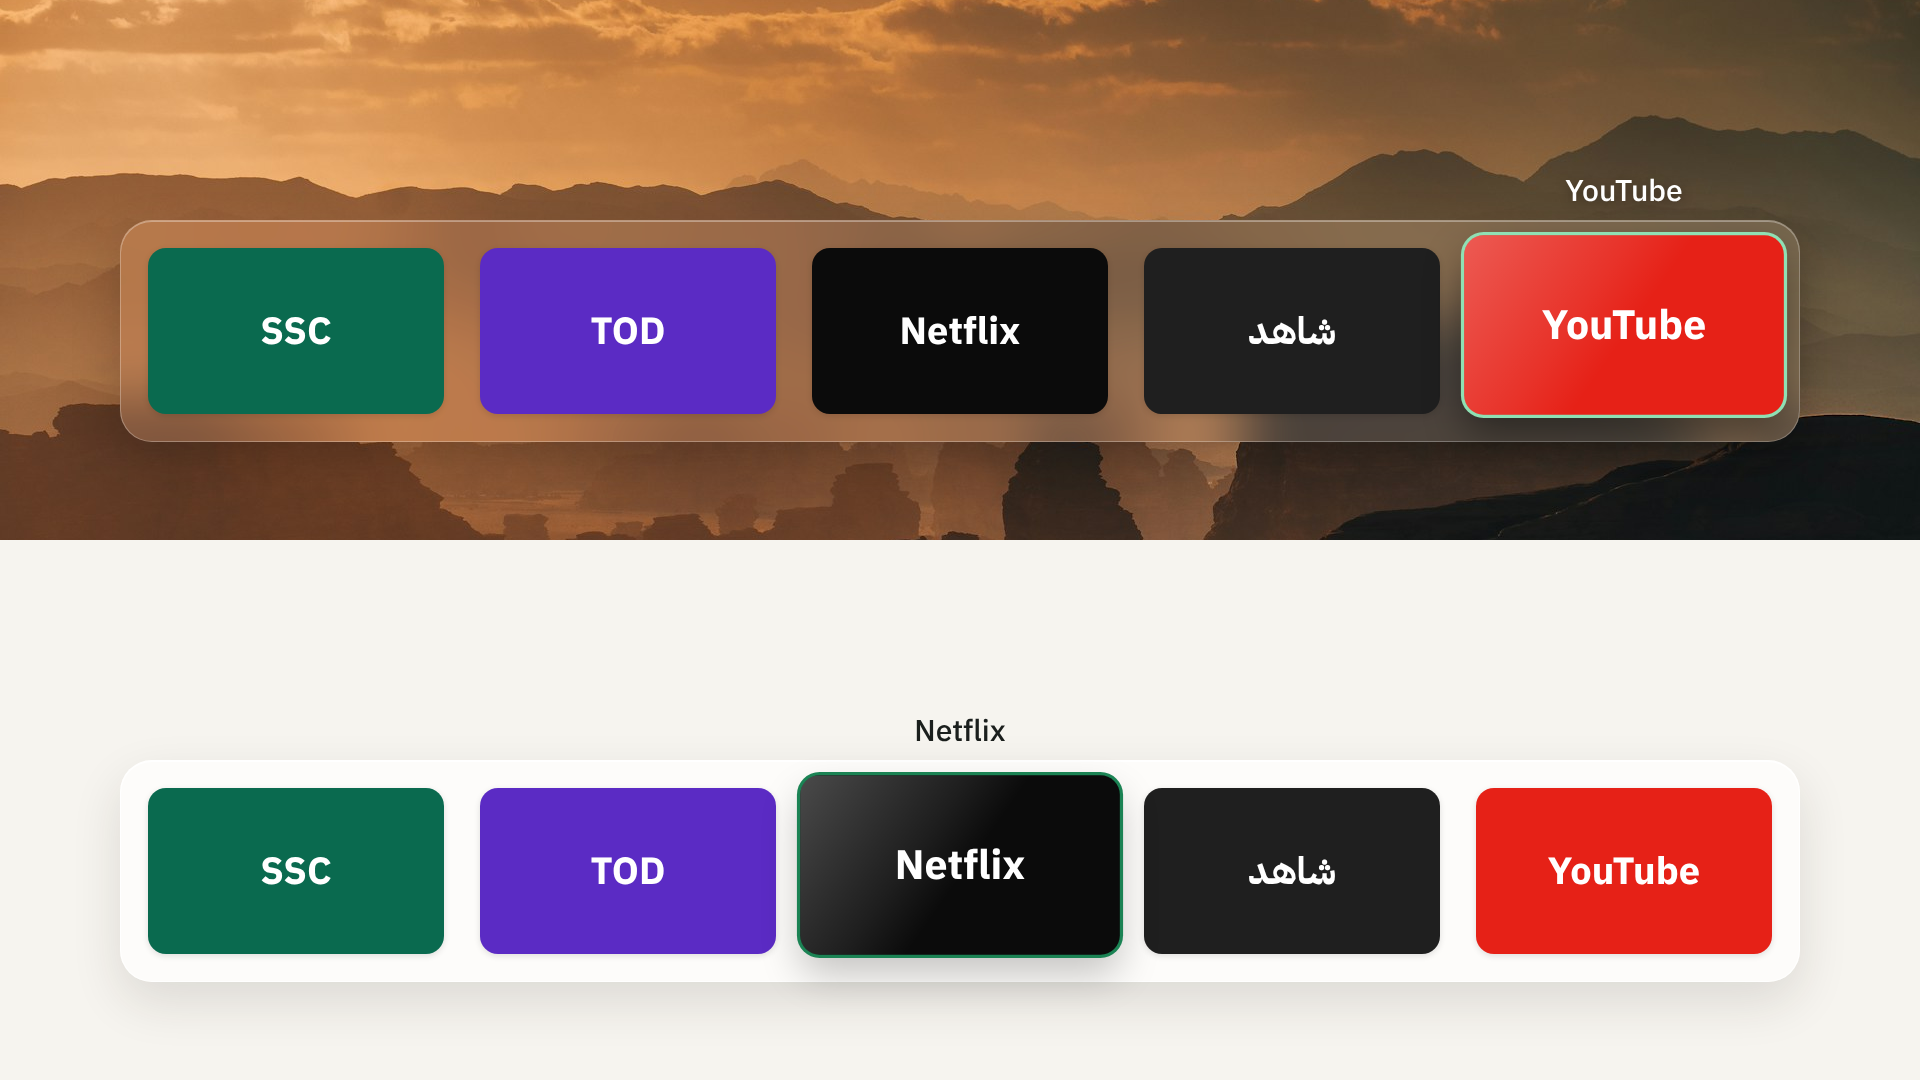
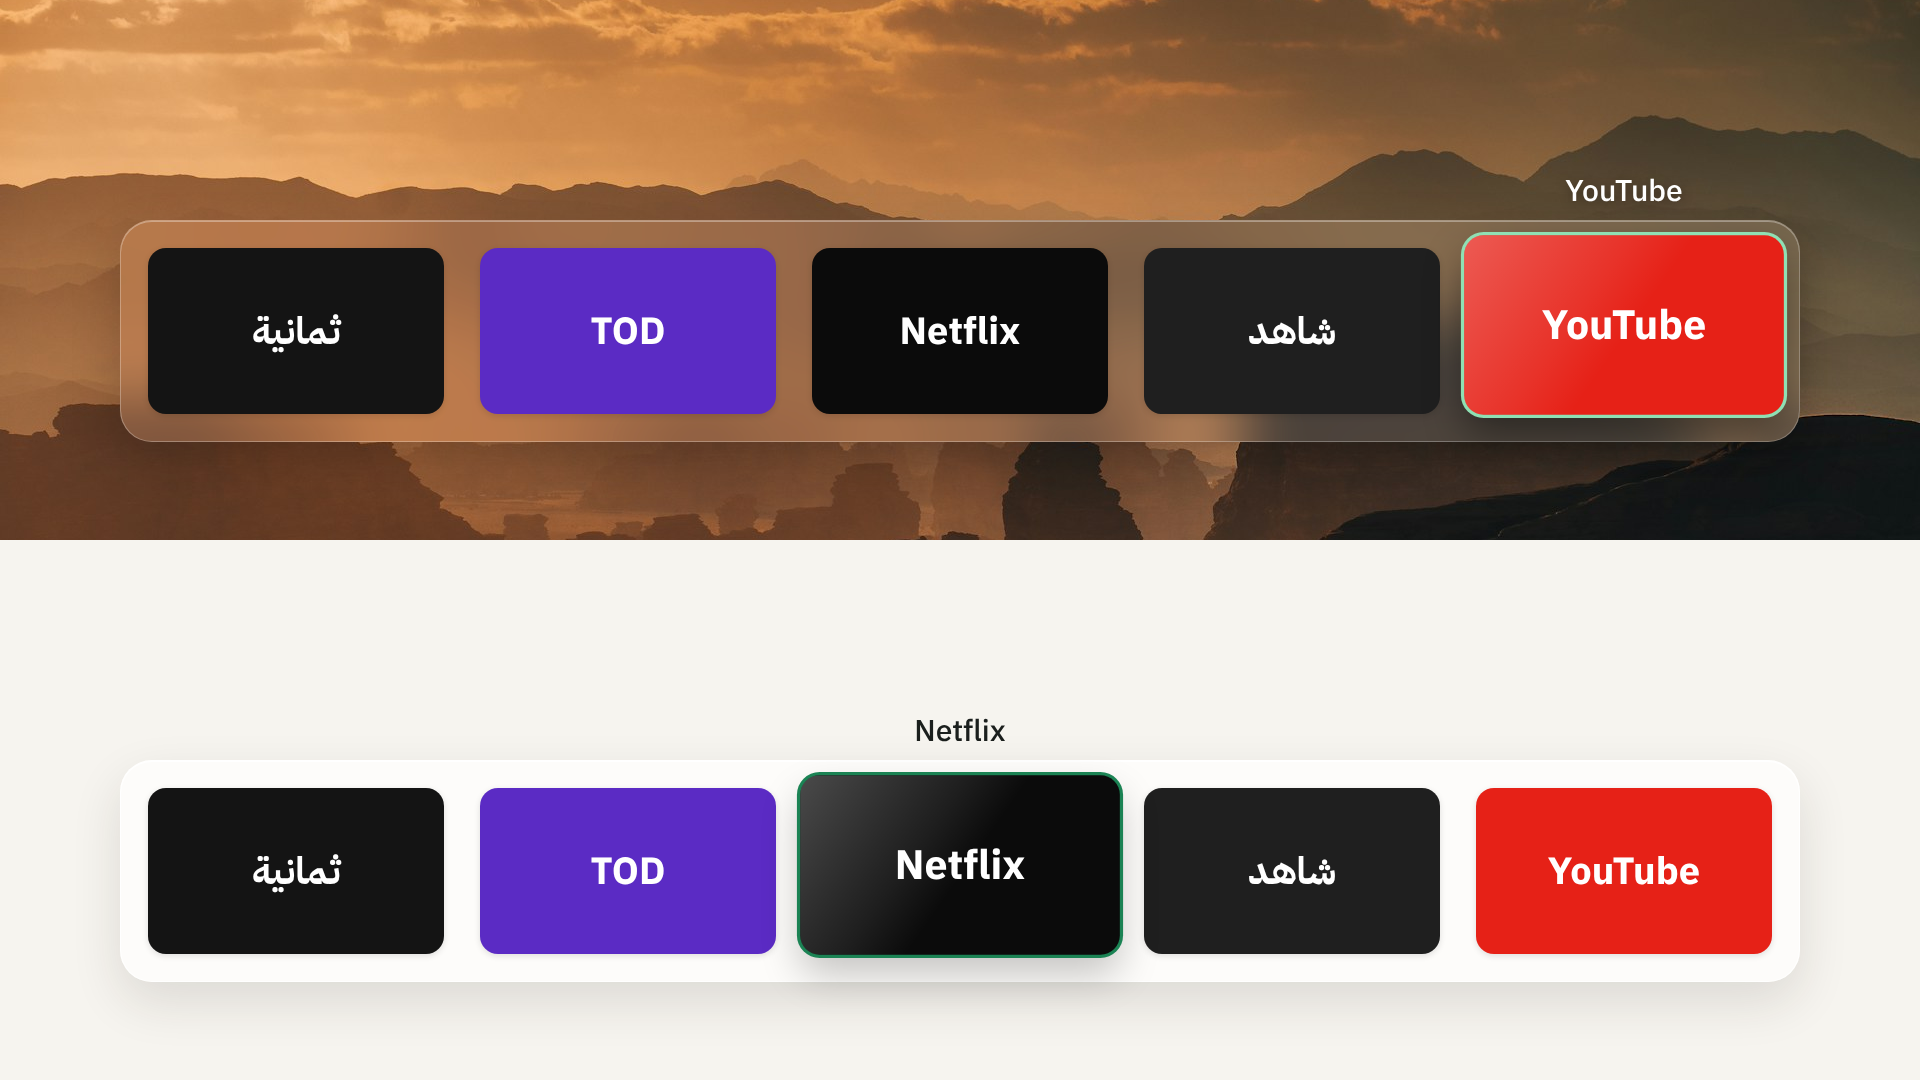
Proposals: tray shift for the matches widget, the matches page and its game card, broadcast marks from a per-league table

Changed region(s): [[0.0625, 0.2139, 0.25, 0.3972], [0.0625, 0.7028, 0.25, 0.8861]]

diff --git a/notes/proposals/proto.html b/notes/proposals/proto.html
@@ -266,7 +266,7 @@ S.home2light=()=>H2(true);
 
 // ---- the owner's question: keep our normal favourites row. It is the regular home's row, unchanged (ux-light-home.png):
 // tiles 262x170, 30 apart, a «خيارات» tile at the end, the focused app's name above at top 640.
-const FAV=[['YouTube','#E62117'],['شاهد','#1F1F1F'],['Netflix','#0B0B0B'],['TOD','#5B2BC4'],['SSC','#0A6A4F']];
+const FAV=[['YouTube','#E62117'],['شاهد','#1F1F1F'],['Netflix','#0B0B0B'],['TOD','#5B2BC4'],['ثمانية','#141414']];
 const SHELF=(tileTop,fo)=>`${fo>=0?`<div class="abs" style="right:120px;top:${tileTop-130}px;font:52px TD;color:#fff;text-shadow:0 2px 14px rgba(0,0,0,.3)">${FAV[fo][0]}</div>`:''}
  <div class="abs" style="left:120px;right:120px;top:${tileTop}px;height:170px;display:flex;gap:30px;direction:rtl;transition:top .2s ease-out">
  ${FAV.map((a,i)=>`<div style="flex:none;width:262px;height:170px;border-radius:20px;background:${a[1]};display:flex;align-items:center;justify-content:center;font:40px TD;color:#fff;border:1.5px solid rgba(255,255,255,.12);${i==fo?'outline:4px solid #8FE0B4;outline-offset:6px;transform:scale(1.04)':''}">${a[0]}</div>`).join('')}
@@ -319,5 +319,74 @@ S.favbar=()=>`<div class="abs" style="left:0;right:0;top:0;height:540px;backgrou
  <div class="abs" style="left:0;right:0;top:540px;height:540px;background:var(--paper)"></div>
  ${BAR(220,0,false)}${BAR(760,2,true)}`;
 S.final=()=>H3('a',1);
+
+// ---- broadcast: a small text mark per game (a placeholder, not the channel's real logo)
+const TV=(n,light)=>`<span style="display:inline-flex;align-items:center;height:30px;padding:0 9px;border-radius:7px;font:19px TD;letter-spacing:.3px;white-space:nowrap;${light?'color:#3B403D;background:#fff;border:1.5px solid var(--line)':'color:#fff;background:rgba(255,255,255,.12);border:1px solid rgba(255,255,255,.35)'}">${n}</span>`;
+// 1. focus on the matches widget: it opens into a row of cards that scrolls right to left, and the tray moves down 40 px
+// (250 ms, ease-in-out) to give it room. The tray looks the same; the name above it is hidden while focus is not in it.
+S.finalw=()=>{const g=G(false);
+ const games=[{h:'الهلال',a:'الاتفاق',t:'٢ - ١',live:'الدقيقة ٦٧',tv:'ثمانية',mine:1},{h:'الأهلي',a:'التعاون',t:'٨:٠٠ م',tv:'ثمانية'},
+  {h:'الفتح',a:'الرياض',t:'٨:٠٠ م',tv:'ثمانية'},{h:'النصر',a:'القادسية',t:'٩:٠٠ م',tv:'ثمانية'},{h:'الاتحاد',a:'الشباب',t:'٩:٠٠ م',tv:'ثمانية'},{h:'ضمك',a:'الخليج',t:'٩:٣٠ م',tv:'ثمانية'}];
+ const cw=300,gap=20;
+ const card=(m,i)=>`<div style="${glass(g,`top:0;right:${i*(cw+gap)}px;width:${cw}px;height:180px;padding:12px 18px;display:flex;flex-direction:column;justify-content:space-between;${i==0?'border:3px solid #8FE0B4;background:rgba(28,22,18,.5)':''}`)}">
+   <div style="display:flex;justify-content:space-between;align-items:center;font:21px TR;color:${g.sub}"><span>دوري روشن · ١٣</span>${TV(m.tv)}</div>
+   <div style="display:flex;align-items:center;justify-content:space-between">
+    <div style="display:flex;flex-direction:column;align-items:center;gap:2px;width:104px">${crest(m.h,40)}<span style="font:23px TM;color:${m.mine?g.nx:'#fff'};white-space:nowrap">${m.h}</span></div>
+    ${m.live?`<span style="font:40px TD;color:#fff;white-space:nowrap">${m.t}</span>`:`<span style="font:28px TL;color:${g.sub}">×</span>`}
+    <div style="display:flex;flex-direction:column;align-items:center;gap:2px;width:104px">${crest(m.a,40)}<span style="font:23px TM;color:#fff;white-space:nowrap">${m.a}</span></div></div>
+   <div style="text-align:center;font:25px TM;color:${m.live?g.nx:'#fff'}">${m.live||m.t}</div></div>`;
+ let h=H3('w',1);
+ h=h.replace(/<div class="abs" style="right:120px;top:242px[\s\S]*?(?=<div class="abs" style="left:120px;width:1680px)/,'');   // the list leaves; the row takes its place
+ h=h.replace('top:804px;height:222px','top:844px;height:222px').replace(/top:832px;width:296px/g,'top:872px;width:296px');
+ return h+`<div class="abs" style="right:120px;top:612px;font:30px TD;color:#fff">مباريات اليوم</div>
+  <div class="abs" style="left:120px;top:620px;font:22px TR;color:${g.sub}">٦ مباريات · كلها على ثمانية</div>
+  <div class="abs" style="right:120px;left:0;top:626px;height:0"></div>
+  <div class="abs" style="right:120px;left:0;top:${626+0}px;height:0"></div>
+  <div class="abs" style="right:120px;left:0;top:654px;height:182px;overflow:hidden;-webkit-mask-image:linear-gradient(90deg,transparent 40px,#000 200px)">${games.map(card).join('')}</div>`;};
+
+// 2. «المباريات»: a page of its own (light look). Days across the top, leagues down the side, the followed team first.
+const ROW=(m,fo)=>`<div style="display:flex;align-items:center;gap:18px;height:92px;padding:0 26px;${fo?'background:var(--tint);outline:3px solid var(--green);outline-offset:-3px;border-radius:16px;':'border-top:1.5px solid var(--line);'}">
+  <span style="width:150px;font:26px TM;color:${m.live?'var(--green)':'var(--ink)'}">${m.live||m.t}</span>
+  <span style="flex:1;text-align:left;font:28px TM;color:${m.mine?'var(--green)':'var(--ink)'}">${m.h}</span>${crest(m.h,40)}
+  <span style="width:96px;text-align:center;font:${m.sc?'32px TD':'26px TR'};color:${m.sc?'var(--ink)':'var(--mute)'}">${m.sc||'×'}</span>
+  ${crest(m.a,40)}<span style="flex:1;font:28px TM">${m.a}</span>
+  <span style="width:230px;font:21px TR;color:#A15C07">${m.n||''}</span><span style="width:120px;text-align:left">${TV(m.tv,1)}</span></div>`;
+S.mpage=(det)=>{
+ const days=['أمس','اليوم','غدًا','الجمعة ٦','السبت ٧','الأحد ٨','الاثنين ٩'];
+ const lg=[['فرقك','١'],['دوري روشن','٦'],['دوري يلو','٤'],['الدوري الإنجليزي','٨'],['الدوري الإسباني','٥'],['الدوري المصري','٣']];
+ return `<div style="position:absolute;right:120px;top:56px;font:56px TD">المباريات</div>
+ <div class="abs" style="left:120px;top:72px;font:26px TR;color:var(--sub)">TheSportsDB · قبل ٣ دقائق</div>
+ <div class="abs" style="right:120px;left:120px;top:150px;height:76px;display:flex;gap:6px;border-bottom:1.5px solid var(--line)">
+  ${days.map((d,i)=>`<div style="padding:0 26px;display:flex;align-items:center;font:28px ${i==1?'TD':'TM'};color:${i==1?'var(--green)':'var(--sub)'};${i==1?'box-shadow:inset 0 -4px 0 var(--green)':''}">${d}</div>`).join('')}</div>
+ <div class="card abs" style="right:120px;top:258px;width:360px;padding:10px 0">
+  ${lg.map((l,i)=>`<div style="display:flex;justify-content:space-between;align-items:center;height:76px;padding:0 26px;${i==1?'color:var(--green)':''}"><span style="font:28px ${i==1?'TD':'TM'}">${l[0]}</span><span style="font:24px TR;color:var(--mute)">${l[1]}</span></div>`).join('')}</div>
+ <div class="abs" style="right:510px;left:120px;top:258px">
+  <div style="font:28px TD;margin:0 6px 10px">فرقك</div>
+  <div class="card" style="padding:6px">${ROW({h:'الهلال',a:'الاتفاق',sc:'٢ - ١',live:'مباشر ٦٧′',tv:'ثمانية',mine:1},0).replace('border-top:1.5px solid var(--line);','')}</div>
+  <div style="font:28px TD;margin:26px 6px 10px">دوري روشن، الجولة ١٣</div>
+  <div class="card" style="padding:6px">${[{h:'الأهلي',a:'التعاون',t:'٨:٠٠ م',tv:'ثمانية',n:'بعد العشاء بساعة',fo:1},{h:'الفتح',a:'الرياض',t:'٨:٠٠ م',tv:'ثمانية'},{h:'النصر',a:'القادسية',t:'٩:٠٠ م',tv:'ثمانية'},{h:'الاتحاد',a:'الشباب',t:'٩:٠٠ م',tv:'ثمانية'},{h:'ضمك',a:'الخليج',t:'٩:٣٠ م',tv:'ثمانية'}].map((m,i)=>ROW(m,m.fo&&!det).replace(i==0?'border-top:1.5px solid var(--line);':'@@','')).join('')}</div></div>
+ ${det?DETAIL():''}`;};
+// 3. one game, on OK: over the page, the page dimmed
+const DETAIL=()=>{
+ const x=t=>100+(t-17)*(1080/6);   // 5 pm .. 11 pm across 1080 px
+ return `<div class="abs" style="inset:0;background:rgba(246,244,239,.78)"></div>
+ <div class="abs" style="right:300px;left:300px;top:120px;height:840px;background:var(--paper);border:1.5px solid var(--line);border-radius:28px;box-shadow:0 30px 80px rgba(40,36,24,.18);padding:40px 56px">
+  <div style="display:flex;justify-content:space-between;align-items:center;font:26px TR;color:var(--sub)"><span>دوري روشن، الجولة ١٣</span>${TV('ثمانية',1)}</div>
+  <div style="display:flex;align-items:center;justify-content:center;gap:80px;margin-top:20px">
+   <div style="display:flex;flex-direction:column;align-items:center;gap:10px">${crest('الأهلي',120)}<span style="font:38px TD">الأهلي</span></div>
+   <div style="text-align:center"><div style="font:72px TD">٨:٠٠ م</div><div style="font:28px TR;color:var(--sub)">اليوم</div></div>
+   <div style="display:flex;flex-direction:column;align-items:center;gap:10px">${crest('التعاون',120)}<span style="font:38px TD">التعاون</span></div></div>
+  <div class="card" style="margin-top:30px;overflow:hidden">
+   <div class="row"><span class="nm">الملعب</span><span class="v">ملعب الإنماء، جدة</span></div>
+   <div class="row"><span class="nm">القناة</span><span class="v">ثمانية، أو تطبيق ثمانية</span></div>
+   <div class="row" style="height:178px;display:block;padding:20px 28px">
+    <div style="display:flex;justify-content:space-between"><span style="font:32px TM">مع الصلاة</span><span style="font:26px TR;color:var(--green)">تبدأ بعد العشاء بساعة و١٣ دقيقة</span></div>
+    <div style="position:relative;height:70px;margin-top:10px">
+     <div style="position:absolute;right:0;left:0;top:30px;height:3px;background:var(--line)"></div>
+     ${[[17.28,'المغرب ٥:١٧'],[18.78,'العشاء ٦:٤٧']].map(p=>`<div style="position:absolute;right:${x(p[0])-100}px;top:22px;width:3px;height:19px;background:var(--sub)"></div><div style="position:absolute;right:${x(p[0])-170}px;width:140px;text-align:center;top:44px;font:22px TR;color:var(--sub)">${p[1]}</div>`).join('')}
+     <div style="position:absolute;right:${x(20)-100}px;width:${x(21.83)-x(20)}px;top:24px;height:15px;border-radius:4px;background:var(--fill)"></div>
+     <div style="position:absolute;right:${x(20)-100}px;width:${x(21.83)-x(20)}px;top:44px;text-align:center;font:22px TM;color:var(--green)">المباراة ٨:٠٠ – ٩:٥٠</div></div></div></div>
+  <div style="display:flex;gap:20px;margin-top:30px"><div class="btn pri fo" style="flex:1">${ic('bell',32)}ذكّرني قبلها بربع ساعة</div><div class="btn" style="flex:1">تابع الأهلي</div></div></div>`;};
+S.mpaged=()=>S.mpage(1);
 document.getElementById('f').innerHTML=S[(location.hash||'#football').slice(1)]();
 </script></body></html>

diff --git a/docs/PROPOSALS-NOV2.md b/docs/PROPOSALS-NOV2.md
@@ -76,6 +76,62 @@ tray and never slides, so B is out, and the «خيارات» tile is gone. The f
 | No «خيارات» tile | the app options open from a long OK, as today, until a visible way is chosen that keeps the bar unchanged |
 | Widgets above | everything else on the home must end by y 740, so the name has room above the tray |
 
+**The tray may move down a little, and only for a widget** (`notes/proposals/football-home-final-widgetfocus.png`).
+- When focus enters the matches widget, the widget opens into a row of game cards that scrolls right to left with ◀ ▶.
+  To make room, the tray moves down 40 px in 250 ms with ease-in-out. It looks exactly the same, and its tiles move with it.
+- The app name above the tray is hidden while focus is outside the bar.
+- When focus comes back down to the apps, the tray returns to y 804 in the same 250 ms before the tile lifts, and the
+  widget closes back to its three lines.
+- Nothing moves while focus stays on the apps, or while it moves between the other widgets (weather and prayers need no
+  extra room).
+- At 844 the tray's bottom is at 1066, still on the screen. 40 px is the most it ever moves.
+
+### The «المباريات» page
+
+It opens with OK on the matches widget, and from Settings › المزيد › المباريات. It is a page of its own on the light look:
+- `notes/proposals/matches-page.png`:
+  - **Days** across the top: أمس، اليوم، غدًا, then the next four days. The chosen day is green with a 4 px green bar
+    under it.
+  - **Leagues** down the right side, each with its game count. «فرقك» comes first.
+  - **The followed team first**, under «فرقك». A live game shows «مباشر ٦٧′» in green and the score.
+  - **The rest by league and round.** Each row: time, home team with crest, × or score, away team with crest, a note
+    when the game clashes with a prayer (amber), and the broadcaster's mark.
+  - The source and its age sit beside the title.
+- `notes/proposals/matches-page-detail.png`: OK on a game opens its card over the page. It shows:
+  - the league and round;
+  - big crests and the kick-off time;
+  - the venue and the broadcaster;
+  - «مع الصلاة»: a line from Maghrib to 11 pm with the prayers marked and the game drawn as a green bar, and one
+    sentence («تبدأ بعد العشاء بساعة و١٣ دقيقة»);
+  - «ذكّرني قبلها بربع ساعة», which makes a reminder from item 4, and «تابع الأهلي».
+- **Data:**
+  - Venue (`strVenue`) is in TheSportsDB's events; `league_fixtures.py` must add it to `KEEP`.
+  - The page reads the same `data-leagues` files as the home, so it adds no new requests.
+  - Days beyond the coming week are out of scope (the files hold 7 days ahead and 36 hours back).
+
+### Broadcast marks
+
+**Decision: keep a small table of our own for each league and season, and show the rights holder, not a channel per game.**
+- **The Saudi Pro League:**
+  - Thmanyah (SRMG) holds exclusive MENA rights from 2025-26 to 2030-31. That covers the Pro League, the King's Cup, the
+    Super Cup and the First Division (sportbusiness.com, 14 June 2025; argaam.com).
+  - SSC lost the league and closed on 5 October 2025.
+  - Thmanyah shows games free on thmanyah 1, 2 and 3. When more than three overlap, the rest are in the Thmanyah app.
+  - So every Saudi Pro League game says «ثمانية», and the detail card says «ثمانية، أو تطبيق ثمانية».
+- **The table:** `assets/shared/broadcast.json`, as `{league: {season: {"ar": "ثمانية", "en": "Thmanyah"}}}`. Each
+  league's entry is checked once a season, with the source link in the file. A league missing from it shows no mark,
+  never a guess.
+- **TheSportsDB has TV endpoints**, `lookuptv.php?id=` and `eventstv.php?d=`.
+  - On the free key they are reported to return about one row a day.
+  - No Saudi channels were found for the Saudi Pro League.
+  - Too thin to rely on; worth a second look with a Patreon key.
+- **API-Football has no TV data.**
+- **Commercial sources:** Sportmonks and SoccersAPI sell TV data, but they cost money and are not needed while one holder
+  has the whole league.
+- **The marks in the PNGs** are plain text in a small rectangle, not the broadcasters' logos. On the TV it would be the
+  same: text, never a trademark.
+- **The «SSC» app tile** in the bar mockups is replaced by «ثمانية», since SSC closed.
+
 The «⋮ خيارات» tile proposed in `UX-REVIEW.md` (problem 2) is overruled by this decision. The app box from that review
 still opens from a long OK on the app.
 
